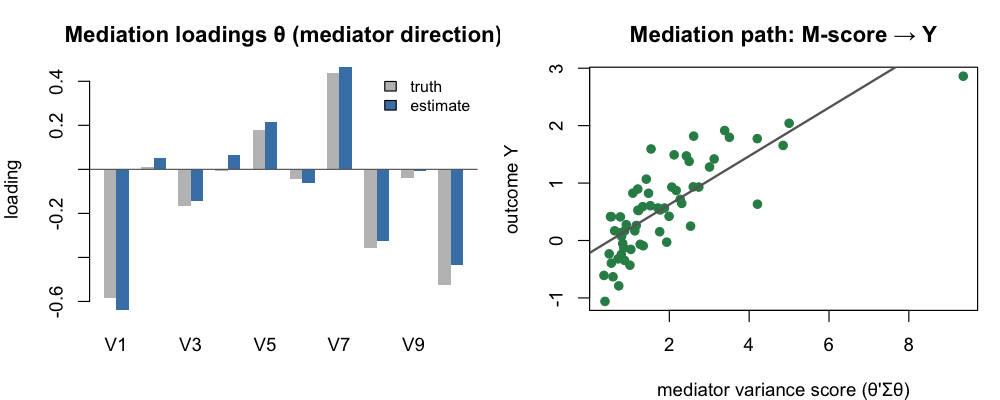
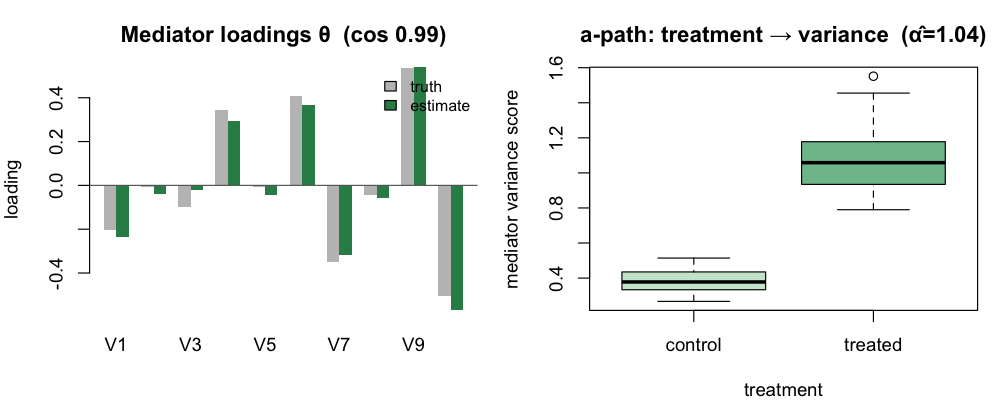
Use the GMed publication example for CAP-mediation
capmediation_example() now generates the GMed p10_q0 setting (Zhao et al.,
github.com/zhaoyi1026/GMed): a binary treatment shifts a 10-dim mediator's
variance along directions {2,4}; the outcome depends on those log-variances.
Examples.md and the vignette fit with the reference recipe (H = average
covariance via H=NULL, stop.crt=DfD, Y.remove=FALSE). The leading mediating
direction recovers (theta cos ~0.99) and the treatment->variance a-path
alpha-hat ~1.0; the figure shows the variance score rising under treatment.
(b-path/IE are attenuated at finite Ti -> use capmediation_boot for inference.)
Regenerated mediation.png and man/cap_examples.Rd; R CMD check still clean.

diff --git a/Examples.md b/Examples.md
@@ -17,7 +17,7 @@ fit <- <method>(...)           # run the method on it
 | LCAP | `lcap()` | `lcap_example()` | longitudinal, fixed + random effects |
 | MCAP | `mcap()` | `mcap_example()` | multilevel, cluster-varying loadings |
 | CAP-CoC | `coc()` | `coc_example()` | covariance-on-covariance regression (manuscript sim) |
-| CAP-mediation | `capmediation()` | `capmediation_example()` | covariance mediator |
+| CAP-mediation | `capmediation()` | `capmediation_example()` | covariance mediator (GMed sim) |
 | HCAP | `hcap()` | `hcap_example()` | high-dimensional covariates (regularization + post-selection inference) |
 | CAP-clustering | `cappcl()` | `cappcl_example()` | clustering covariance patterns |
 
@@ -147,22 +147,37 @@ predictor **θ cosine ≈ 1.0**, and **β̂ = (1.20, −0.96)** vs the true `(1,
 
 ## CAP-mediation — covariance mediator
 
-Tests whether the **variance of a multivariate mediator** along a direction θ
-carries an exposure effect to a scalar outcome: exposure → `log(θ′ Σᵢ θ)` → `Y`.
+Tests whether a treatment acts on an outcome **through the variance of a
+multivariate mediator** along a latent direction θ: treatment → `log(θ′ Σᵢ θ)`
+(the **a-path**) → `Y` (the **b-path**), alongside a direct treatment effect.
+`coef` reports `alpha` (a-path), `beta` (b-path), `gamma`, `IE` (indirect /
+mediation effect) and `DE` (direct effect) per direction; `*_boot()` adds
+bootstrap inference.
 
-**Data:** `X` is an `n × q` design (exposure + covariates); `M` is a length-`n`
-list of `Tᵢ × p` mediator matrices; `Y` is a length-`n` outcome vector.
+**Data:** `X` is an `n × q` design (treatment + optional covariates); `M` is a
+length-`n` list of `Tᵢ × p` mediator matrices; `Y` is a length-`n` outcome vector.
+
+The built-in example is the **GMed `p10_q0` setting** of Zhao et al.
+([github.com/zhaoyi1026/GMed](https://github.com/zhaoyi1026/GMed)): a binary
+treatment shifts the mediator's variance along two latent directions ({2, 4}),
+and the outcome depends on those log-variances. `H` defaults to the average
+mediator covariance and `Y.remove = FALSE` matches that reference.
 
 ```r
-d   <- capmediation_example()           # 60 subjects, p = 10
-fit <- capmediation(d$X, d$M, d$Y, stop.crt = "nD", nD = 1, verbose = FALSE)
+d   <- capmediation_example()           # 100 subjects, p = 10, binary treatment
+fit <- capmediation(d$X, d$M, d$Y, stop.crt = "DfD", DfD.thred = 2,
+                    Y.remove = FALSE, verbose = FALSE)
 
-fit$theta   # mediator loading direction
-fit$coef    # path coefficients (exposure → mediator variance → outcome)
+fit$theta   # mediator loading direction(s)
+fit$coef    # alpha (a-path), beta (b-path), gamma, IE, DE  per direction
 ```
 
-Mediator direction **θ cosine ≈ 0.99**. The right panel shows the fitted
-mediator-variance → outcome path.
+The leading mediating direction is recovered: **θ cosine ≈ 0.99**, and the
+treatment → mediator-variance **a-path α̂ ≈ 1.0** (true 1) — the right panel shows
+the mediator's variance score rising under treatment. (The b-path / indirect
+effect is attenuated at finite `Tᵢ` because the per-subject covariance is
+estimated from `Tᵢ` rows, so the bootstrap companion `capmediation_boot()` is the
+intended route for indirect-effect inference.)
 
 ![CAP-mediation](man/figures/mediation.png)
 
